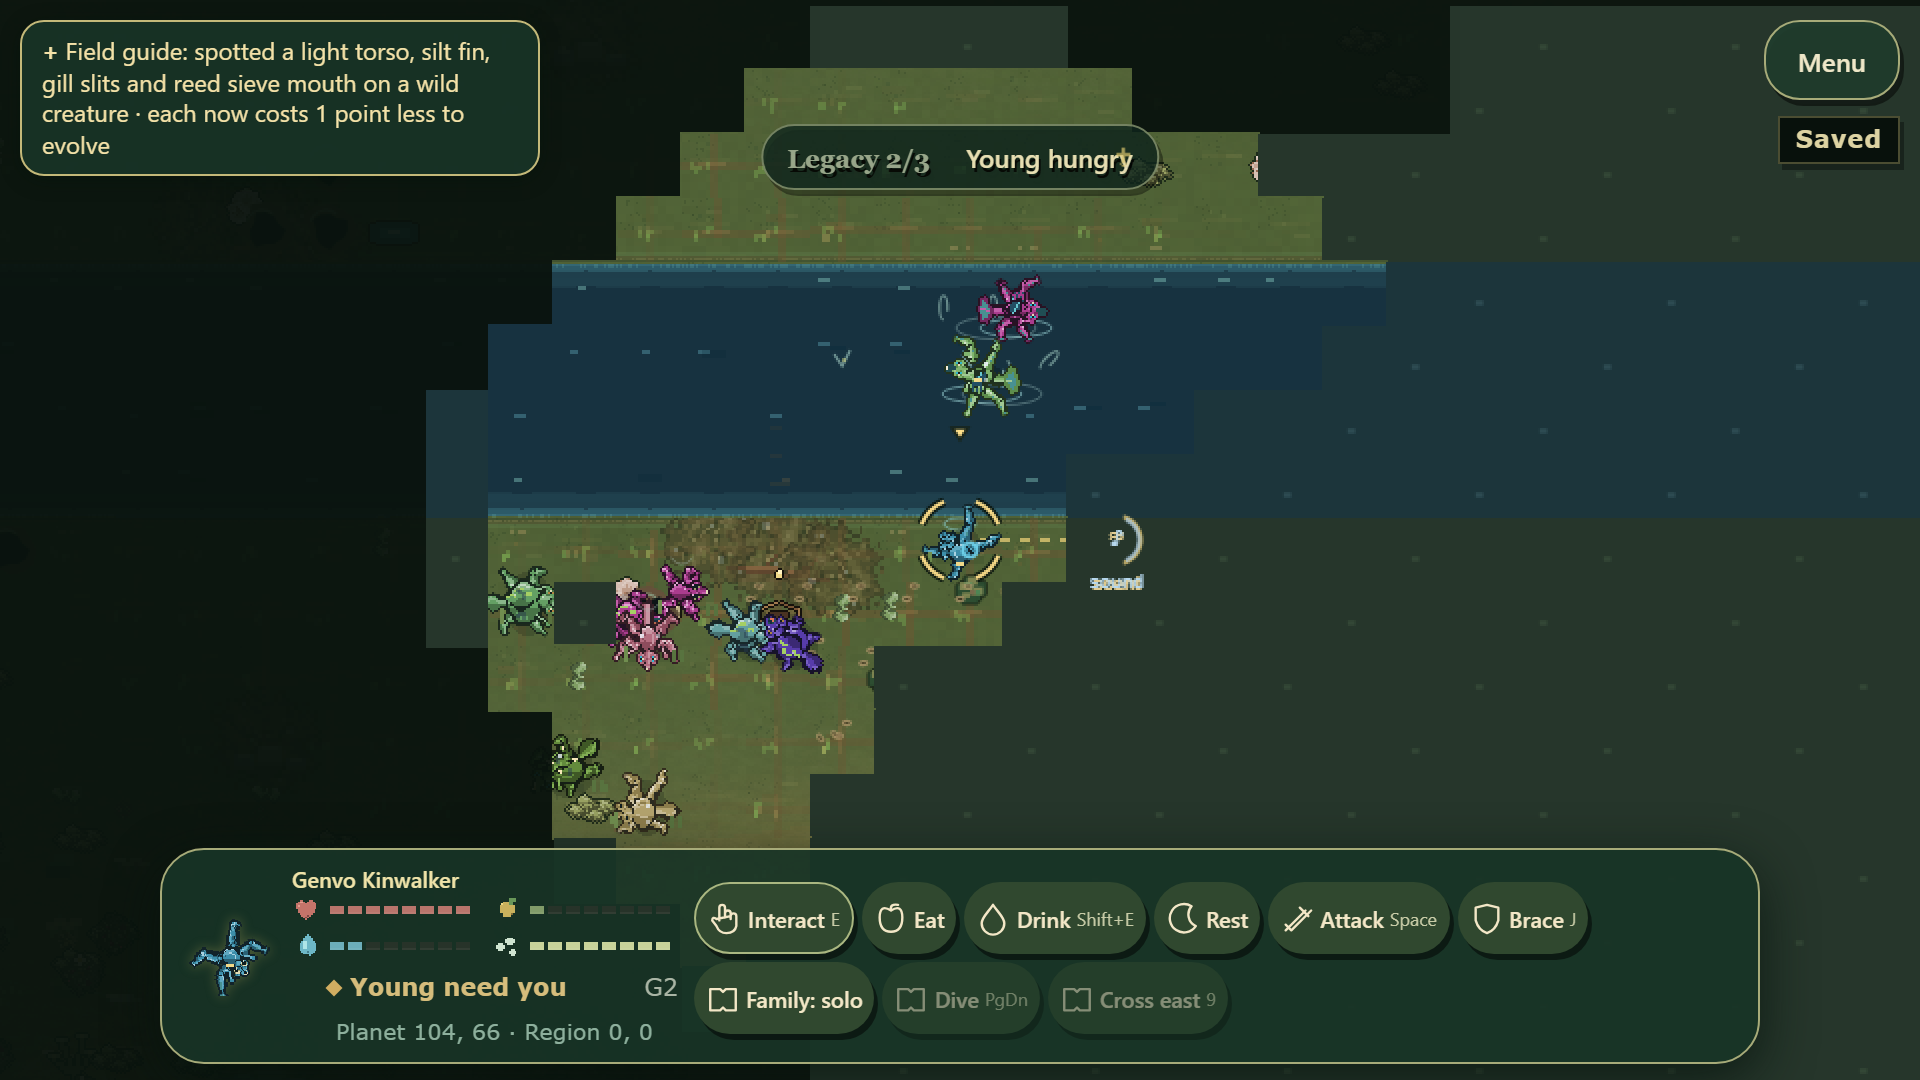
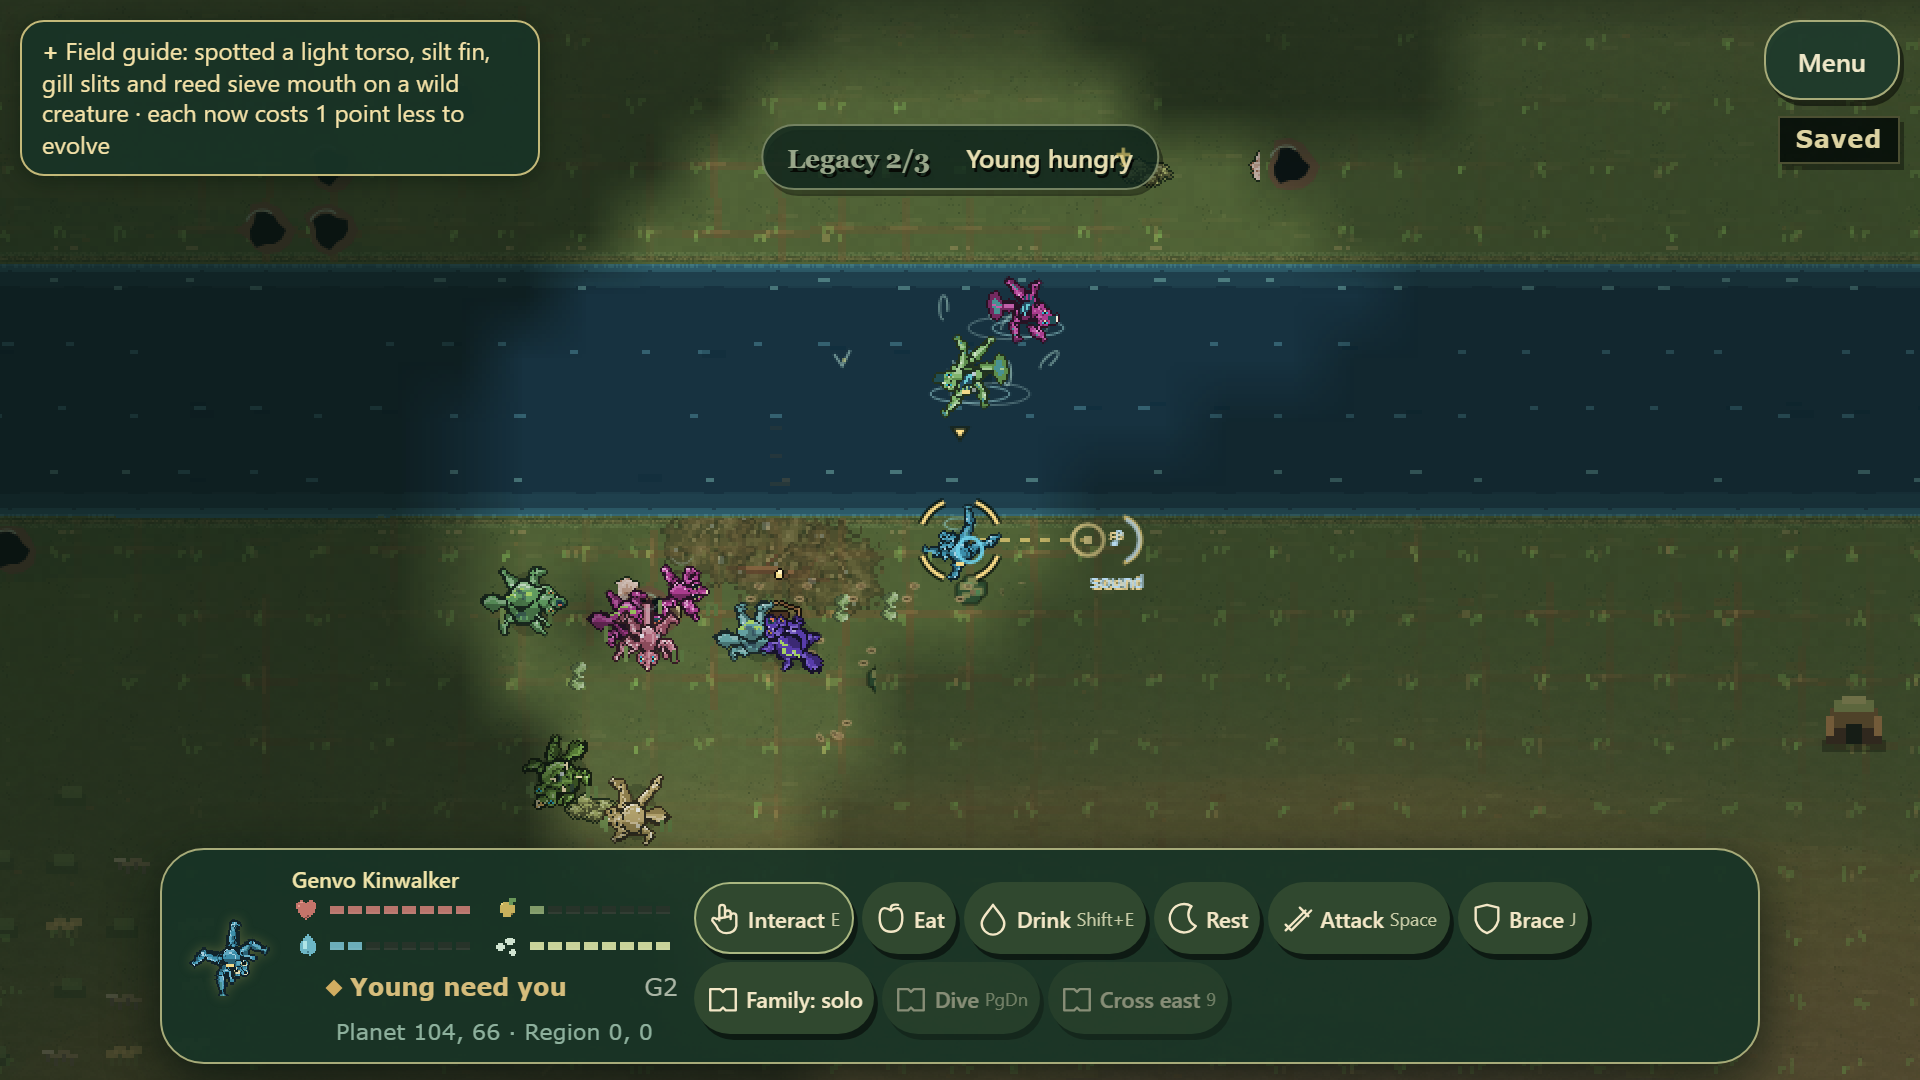
Refresh the itch.io page assets for the bdb8127 release
Release ZIP b7be1f9d... (776 files) from bdb8127 passes the pinned
release suite (gate 92/92 and focused render, audio, export and
view-mode tests), the exported-build browser check and The First Legacy
at 1x. Screenshots, cover and backgrounds are re-captured from this
build: planetary shots use the default Comfort View and creatures show
the latest native art. The description mentions the View options.
Not published; the creator will upload the kit.

diff --git a/docs/itch-page-2026-10-22/description.html b/docs/itch-page-2026-10-22/description.html
@@ -27,6 +27,7 @@ The <strong>Auto</strong> button in the in-game Menu lets your creature act on i
 
 <h3>Status</h3>
 <p>GenVo is in active development and this is a jam build. Expect rough edges, and long sessions can be demanding on slower machines. A lighter performance mode switches on by itself when frames run slow, and fullscreen is under Esc → Options.</p>
+<p><strong>View:</strong> Esc → Options → View offers <em>Comfort View</em> (default: the land stays readable while creatures and food appear only when your creature senses them), <em>Biological Vision</em> (only what your creature's eyes and senses reach) and <em>Sandbox View</em> (the whole landscape and its plants, for enjoying the world).</p>
 
 <h3>Credits</h3>
 <p><strong>Created &amp; directed by</strong> SevenFoldStories [QUIλ]<br>

diff --git a/docs/itch-page-2026-10-22/README.md b/docs/itch-page-2026-10-22/README.md
@@ -2,7 +2,18 @@
 
 **Status:** prepared, not published. The creator chose to upload it themselves. The upload kit and checklist are in `../GenVo-itch-upload-2026-10-22/`, outside the repository.
 
-## Release
+## Current release (refreshed October 23)
+
+- **Source:** `bdb81274b80bfc859eadf7a9b31e6f250431b400`, built the same way (`git archive`, `export-public.mjs`, `package-itch-preview.py`).
[1 lines of base64/hex data omitted]
+- **Copies:** `builds/GenVo-itch-2026-10-23-bdb8127/` and `../GenVo-web-2026-10-23-bdb8127.zip`.
+- **Verification:**
+  - release suite on the pinned source: gate 92/92, plus render cache, habitat art, scene, frame stepper, audio, public export and view modes;
+  - `verify-release-browser.mjs` on the ZIP: all checks pass, with no missing resources, page errors or console errors;
+  - First Legacy at 1x: heir on day 56 (6.0 min), summary shown, play continues, no errors.
+- **Page assets:** screenshots, cover and backgrounds re-captured from this build with the same tools and sources. The planetary shots now use the default Comfort View, and creature art reflects the latest native passes. `cover/af020f9-vs-bdb8127.png` compares the two covers.
+
+## Earlier release (October 22)
 
 - **Source:** commit `af020f9971edbcd6548cb83494b7d29af770763e`, exported with `tools/export-public.mjs` from a `git archive` of that commit and packaged with `tools/package-itch-preview.py`.
[1 lines of base64/hex data omitted]
